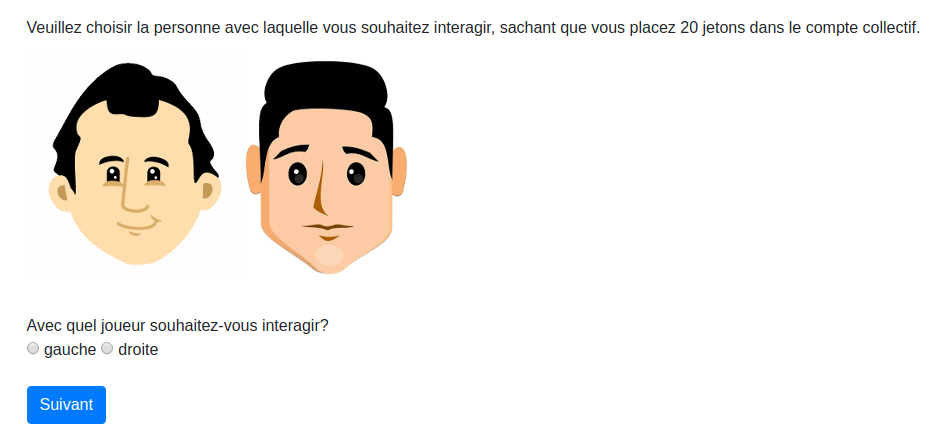
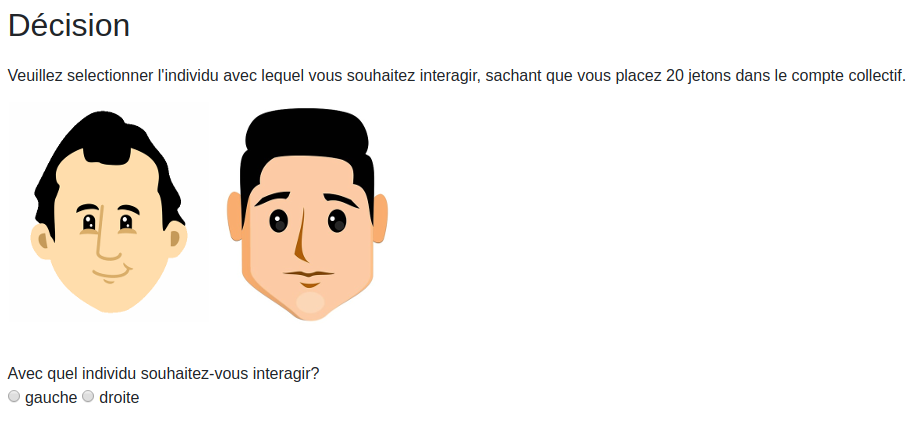
Improve translations Change the screenshot Improve the instructions

Changed region(s): [[0.0, 0.1229, 1.0, 0.7991], [0.0, 0.0307, 0.9846, 0.0922], [0.0, 0.8605, 0.3692, 0.9835]]

diff --git a/templates/coopfaceonline/PGInstructions.html b/templates/coopfaceonline/PGInstructions.html
@@ -3,25 +3,22 @@
 {% load i18n %}
 
 {% block title %}
-    {% trans "Bievenue à cette expérience en ligne" %}
+    {% trans "Instructions" %}
 {% endblock %}
 
 {% block content %}
-    <hr />
-    <h3>
-        Instructions
-    </h3>
     <p>
         L'expérience à laquelle vous allez participer est destinée à l'étude
         de la prise de décisions. Nous vous demandons de bien vouloir lire
         intégralement les instructions. Ces instructions doivent vous
-        permettre de comprendre l'expérience.
-    </p>
-    <p>L'expérience comporte deux parties. Les instructions ci-dessous sont
+        permettre de comprendre l'expérience. <br>
+        L'expérience comporte deux parties. Les instructions ci-dessous sont
         celles de la partie 1. Vous aurez les instructions de la partie 2
-        lorsque la partie 1 sera terminée.
+        lorsque la partie 1 sera terminée.<br>
+        Au cours de l'expérience les gains sont exprimés en ecus. Le taux de
+        conversion des ecus en euros est précisé à la fin de ces instructions.
     </p>
-
+    <p>&nbsp;</p>
     <h3>
         Partie 1
     </h3>
@@ -39,6 +36,7 @@
         jetons compris entre 0 et 20, à savoir 0 jeton, 1 jeton, ..., 19
         jetons ou 20 jetons (votre dotation entière).
     </p>
+    <p>&nbsp;</p>
     <h4>
         Fonctionnement des comptes
     </h4>
@@ -68,6 +66,7 @@
         issu de ce compte pour l'autre membre de votre groupe est aussi
         de 18 ecus.
     </p>
+    <p>&nbsp;</p>
     <h4>
         Gain
     </h4>
@@ -75,6 +74,7 @@
         Votre gain est égal à la somme de votre gain issu de votre compte
         individuel et de votre gain issu du compte collectif.
     </p>
+    <p>&nbsp;</p>
     <h4>
         Exemple
     </h4>
@@ -86,13 +86,15 @@
         égal à 6 ecus (compte individuel) + 0.6 x 26 (compte collectif) =
         21.6 ecus.
     </p>
+    <p>&nbsp;</p>
     <h4>
         Derniers détails
     </h4>
     <p>
         La partie repose sur le principe de décision décrit précédemment.
         Elle ne sera réalisée qu'une seule fois, vous n'aurez donc qu'une
-        décision à prendre.
+        décision à prendre. <br>
+        Le taux de conversion est 1 ecu = 0.5 euro.
     </p>
 
     <p>&nbsp;</p>

diff --git a/templates/coopfaceonline/CFInstructions.html b/templates/coopfaceonline/CFInstructions.html
@@ -26,7 +26,8 @@
         compte collectif votre gain pour cette interaction sera égal à 0
         (compte individuel) + 20x0.6 = 12 ecus, et si vous sélectionnez
         l'individu qui a placé 20 jetons dans le compte collectif votre gain
-        sera égal à 0 (compte individuel) + 40x0.6 = 24 ecus.
+        sera égal à 0 (compte individuel) + 40x0.6 = 24 ecus.<br>
+        Le taux de conversion est 1 ecu = 0.5€.
     </p>
 
     <p>&nbsp;</p>
@@ -35,7 +36,7 @@
         <figcaption>
             <strong>Capture de l'écran de décision</strong>
         </figcaption>
-        <img src="{% static 'coopfaceonline/coopface__decision__anonyme__without_next.png' %}" />
+        <img src="{% static 'coopfaceonline/coopface__decision__anonyme.png' %}" />
     </figure>
 
     <p>&nbsp;</p>
